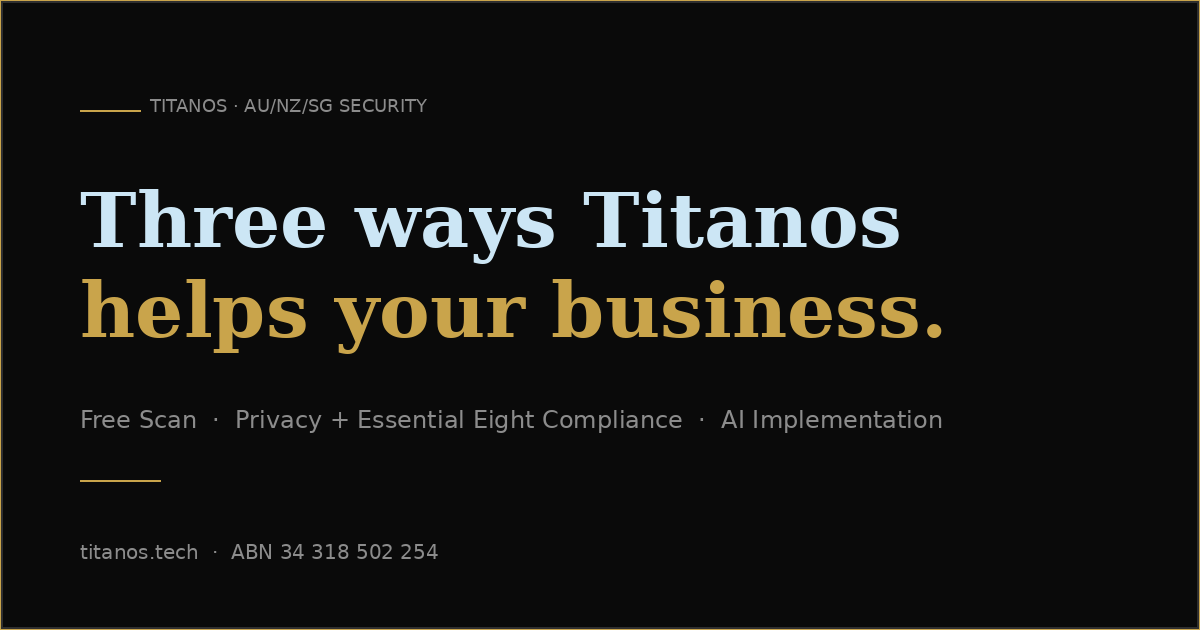
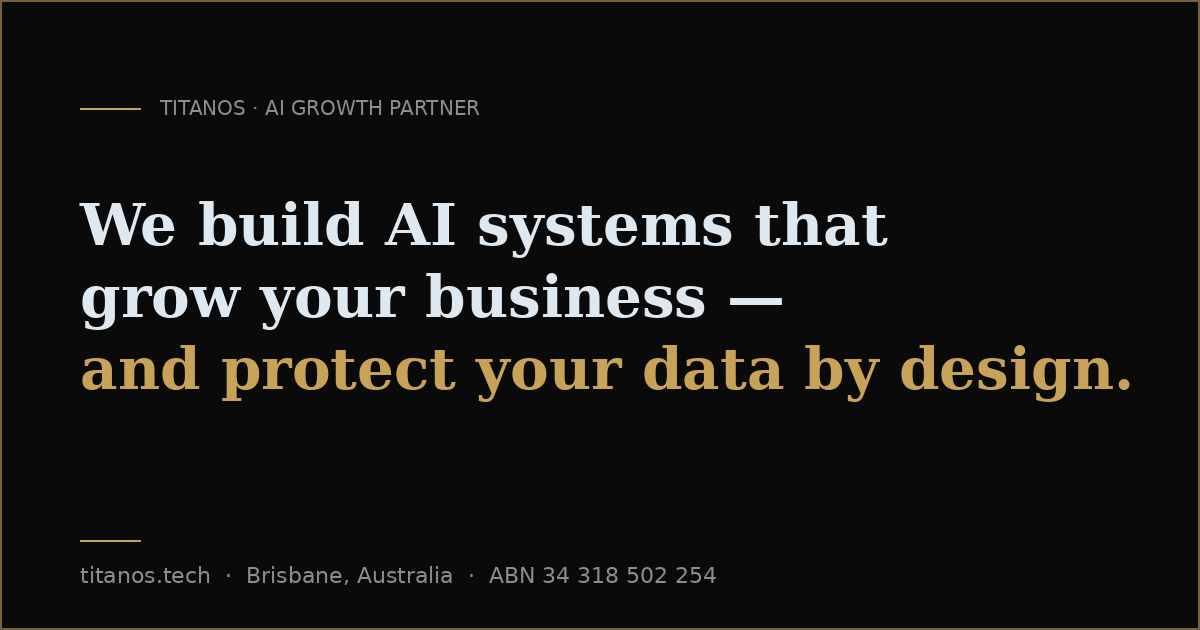
Point AI audit call at a real 45-min cal.com event, regenerate og-image
Created a dedicated "Free AI Audit Call" event (cal.com/kyle-deligny-msvz6s/ai-audit,
45min, Cal Video) via the cal.com API and swapped AUDIT_CALL_URL to it — the
site's primary CTA was pointing at the old 15-min placeholder event.

Replaced og-image.png: it still showed the old three-door framing
("Free Scan · Privacy + Essential Eight Compliance · AI Implementation").
New image matches the AI-first hero and the site's dark/gold aesthetic.

diff --git a/lib/config.ts b/lib/config.ts
@@ -50,11 +50,9 @@ export const SITE: SiteConfig = {
   // CALL · 15 MIN" and route to CAL_15MIN_URL.
   CAL_30MIN_URL: "",
 
-  // Free AI Audit Call booking link. The audit is a live call, explicitly
-  // NOT capped at 15 minutes — Kyle needs a dedicated cal.com event for it
-  // (longer or uncapped). Placeholder below is the 15-min event so the
-  // button works today; swap this one constant when Kyle supplies the URL.
-  AUDIT_CALL_URL: "https://cal.com/kyle-deligny-msvz6s/15min",
+  // Free AI Audit Call booking link — dedicated 45-min cal.com event
+  // (id 6330616), created 2026-07-16 so the audit call isn't capped at 15min.
+  AUDIT_CALL_URL: "https://cal.com/kyle-deligny-msvz6s/ai-audit",
 
   // Operator identity slots (Fix 2b).
   // OPERATOR_INPUT: paste LinkedIn profile URL.
